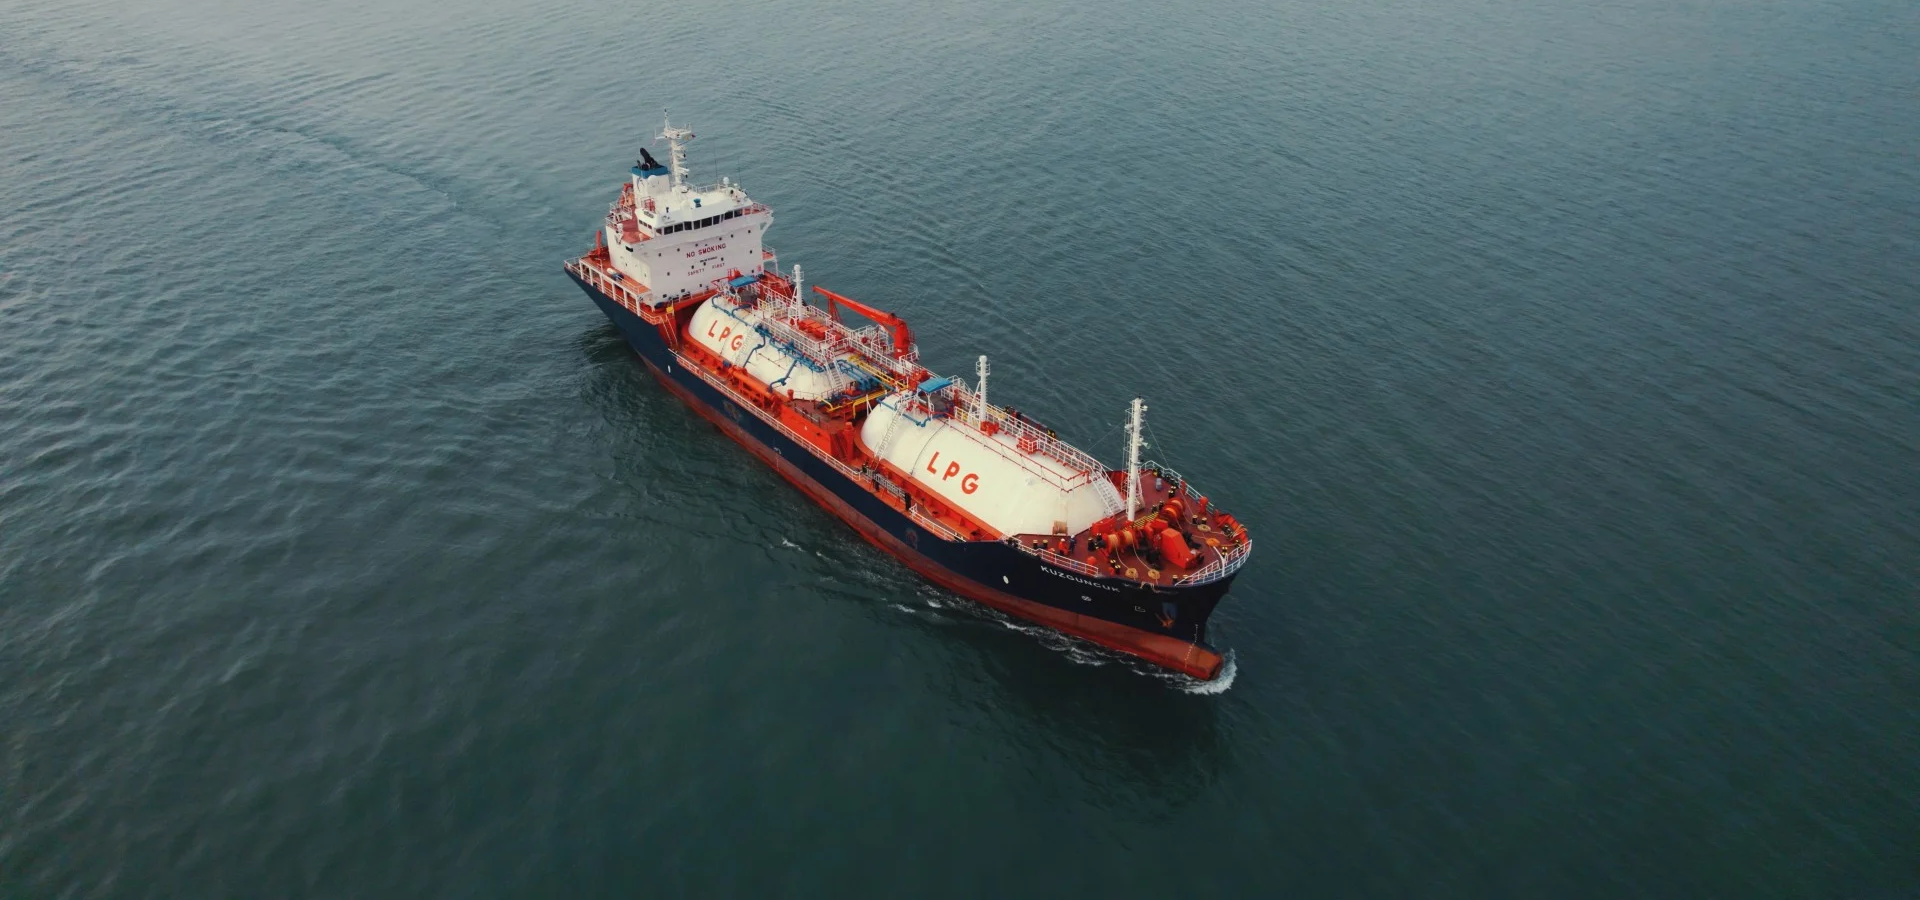
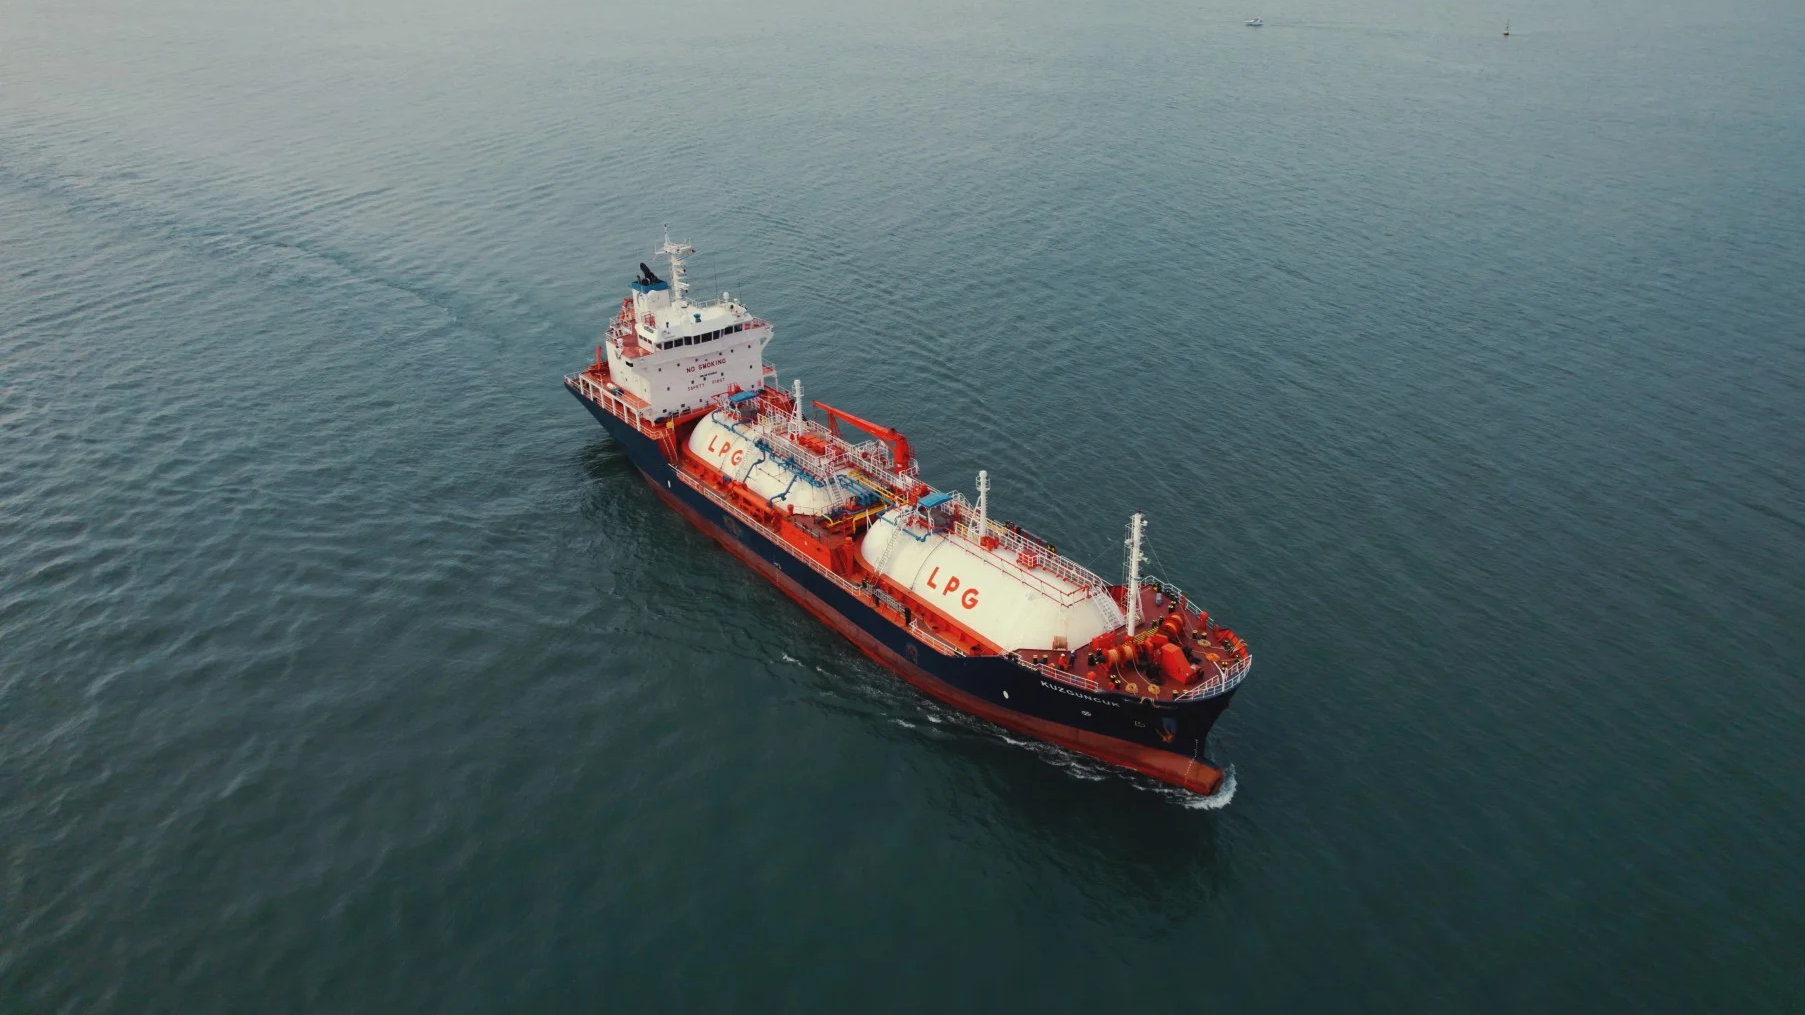
Auto-update: fetch new articles and rebuild site

diff --git a/docs/index.html b/docs/index.html
@@ -33,7 +33,7 @@
   <div class="titleblock-meta">
     <span>BY ΚΩΝΣΤΑΝΤΙΝΟΣ ΜΠΟΤΣΑΡΑΚΟΣ</span>
     <span>SOURCES: GR / INTL</span>
-    <span>UPDATED 17 Jul 2026, 16:24 UTC</span>
+    <span>UPDATED 17 Jul 2026, 16:32 UTC</span>
     <span>120 ENTRIES LOGGED</span>
   </div>
 
@@ -1402,7 +1402,7 @@
 </main>
 
 <footer class="revision-note">
-  <p>Compiled automatically from RSS feeds &amp; summarized with Claude. Last revision 17 Jul 2026, 16:24 UTC.</p>
+  <p>Compiled automatically from RSS feeds &amp; summarized with Claude. Last revision 17 Jul 2026, 16:32 UTC.</p>
 </footer>
 
 <script>